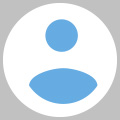
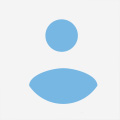
prepare for heartmail management
- AccountHeartmail / HeartmailAccount
- Final checklist on README
- New anonymous avatar

diff --git a/heartmail-web/components/NavTop.js b/heartmail-web/components/NavTop.js
@@ -3,6 +3,7 @@ import Box from '@mui/material/Box'
 import Toolbar from '@mui/material/Toolbar'
 import Image from 'next/image'
 import Link from '../components/Link'
+import Avatar from '@mui/material/Avatar'
 
 export default function NavTop (props) {
   const showAccount = !(props.showAccount === false)
@@ -23,7 +24,7 @@ export default function NavTop (props) {
               {showAccount
                 ? (
                   <Link href='/sign-in'>
-                    <Image src='/avatar-blank-small.png' alt='Self' width='40' height='40' />
+                    <Avatar src='/anonymous-avatar-120.jpg' alt='Self' width='40' height='40' />
                   </Link>
                   )
                 : ('')}

diff --git a/README.md b/README.md
@@ -2,6 +2,34 @@
 
 <img src='./heartmail-landscape.png' alt='HeartMail' width='800'>
 
+## Milestone 3: Money Button Paymails
+
+Heartmails:
+- [ ] Heartmail database models
+- [ ] Creating new account should write heartmails to DB ([accountId]@heartmail.com)
+- [ ] Fill existing account heartmails to DB
+- [ ] View existing heartmails
+- [ ] Register new heartmails with MB
+  - [ ] Confirm heartmail is not already registered
+  - [ ] Get pubKey for mbUserId
+  - [ ] Get pubKey for paymail
+  - [ ] If pubKeys are the same, grant the heartmail
+- [ ] Switch primary heartmail
+- [ ] Automatically switch primary heartmail if it is the first custom one
+- [ ] Automatically insert MB heartmails (primary paymail, mbUserId paymail)
+- [ ] Account avatar in NavBar: Signed in / signed out
+
+Accounts:
+- [ ] Create account on front-page signs in the account
+- [ ] Create account on accounts page signs in the account
+- [ ] Redirect access key page to to sign in page if not signed in
+- [ ] NavBar avatar: goes to settings page (if signed in) or sign in page (if not signed in)
+
+Avatars:
+- [ ] Display custom avatar
+- [ ] Fill existing MB avatars to DB
+- [ ] Enable avatar upload
+
 ## Redirects: www and HTTPS
 
 Our redirect policy is:
